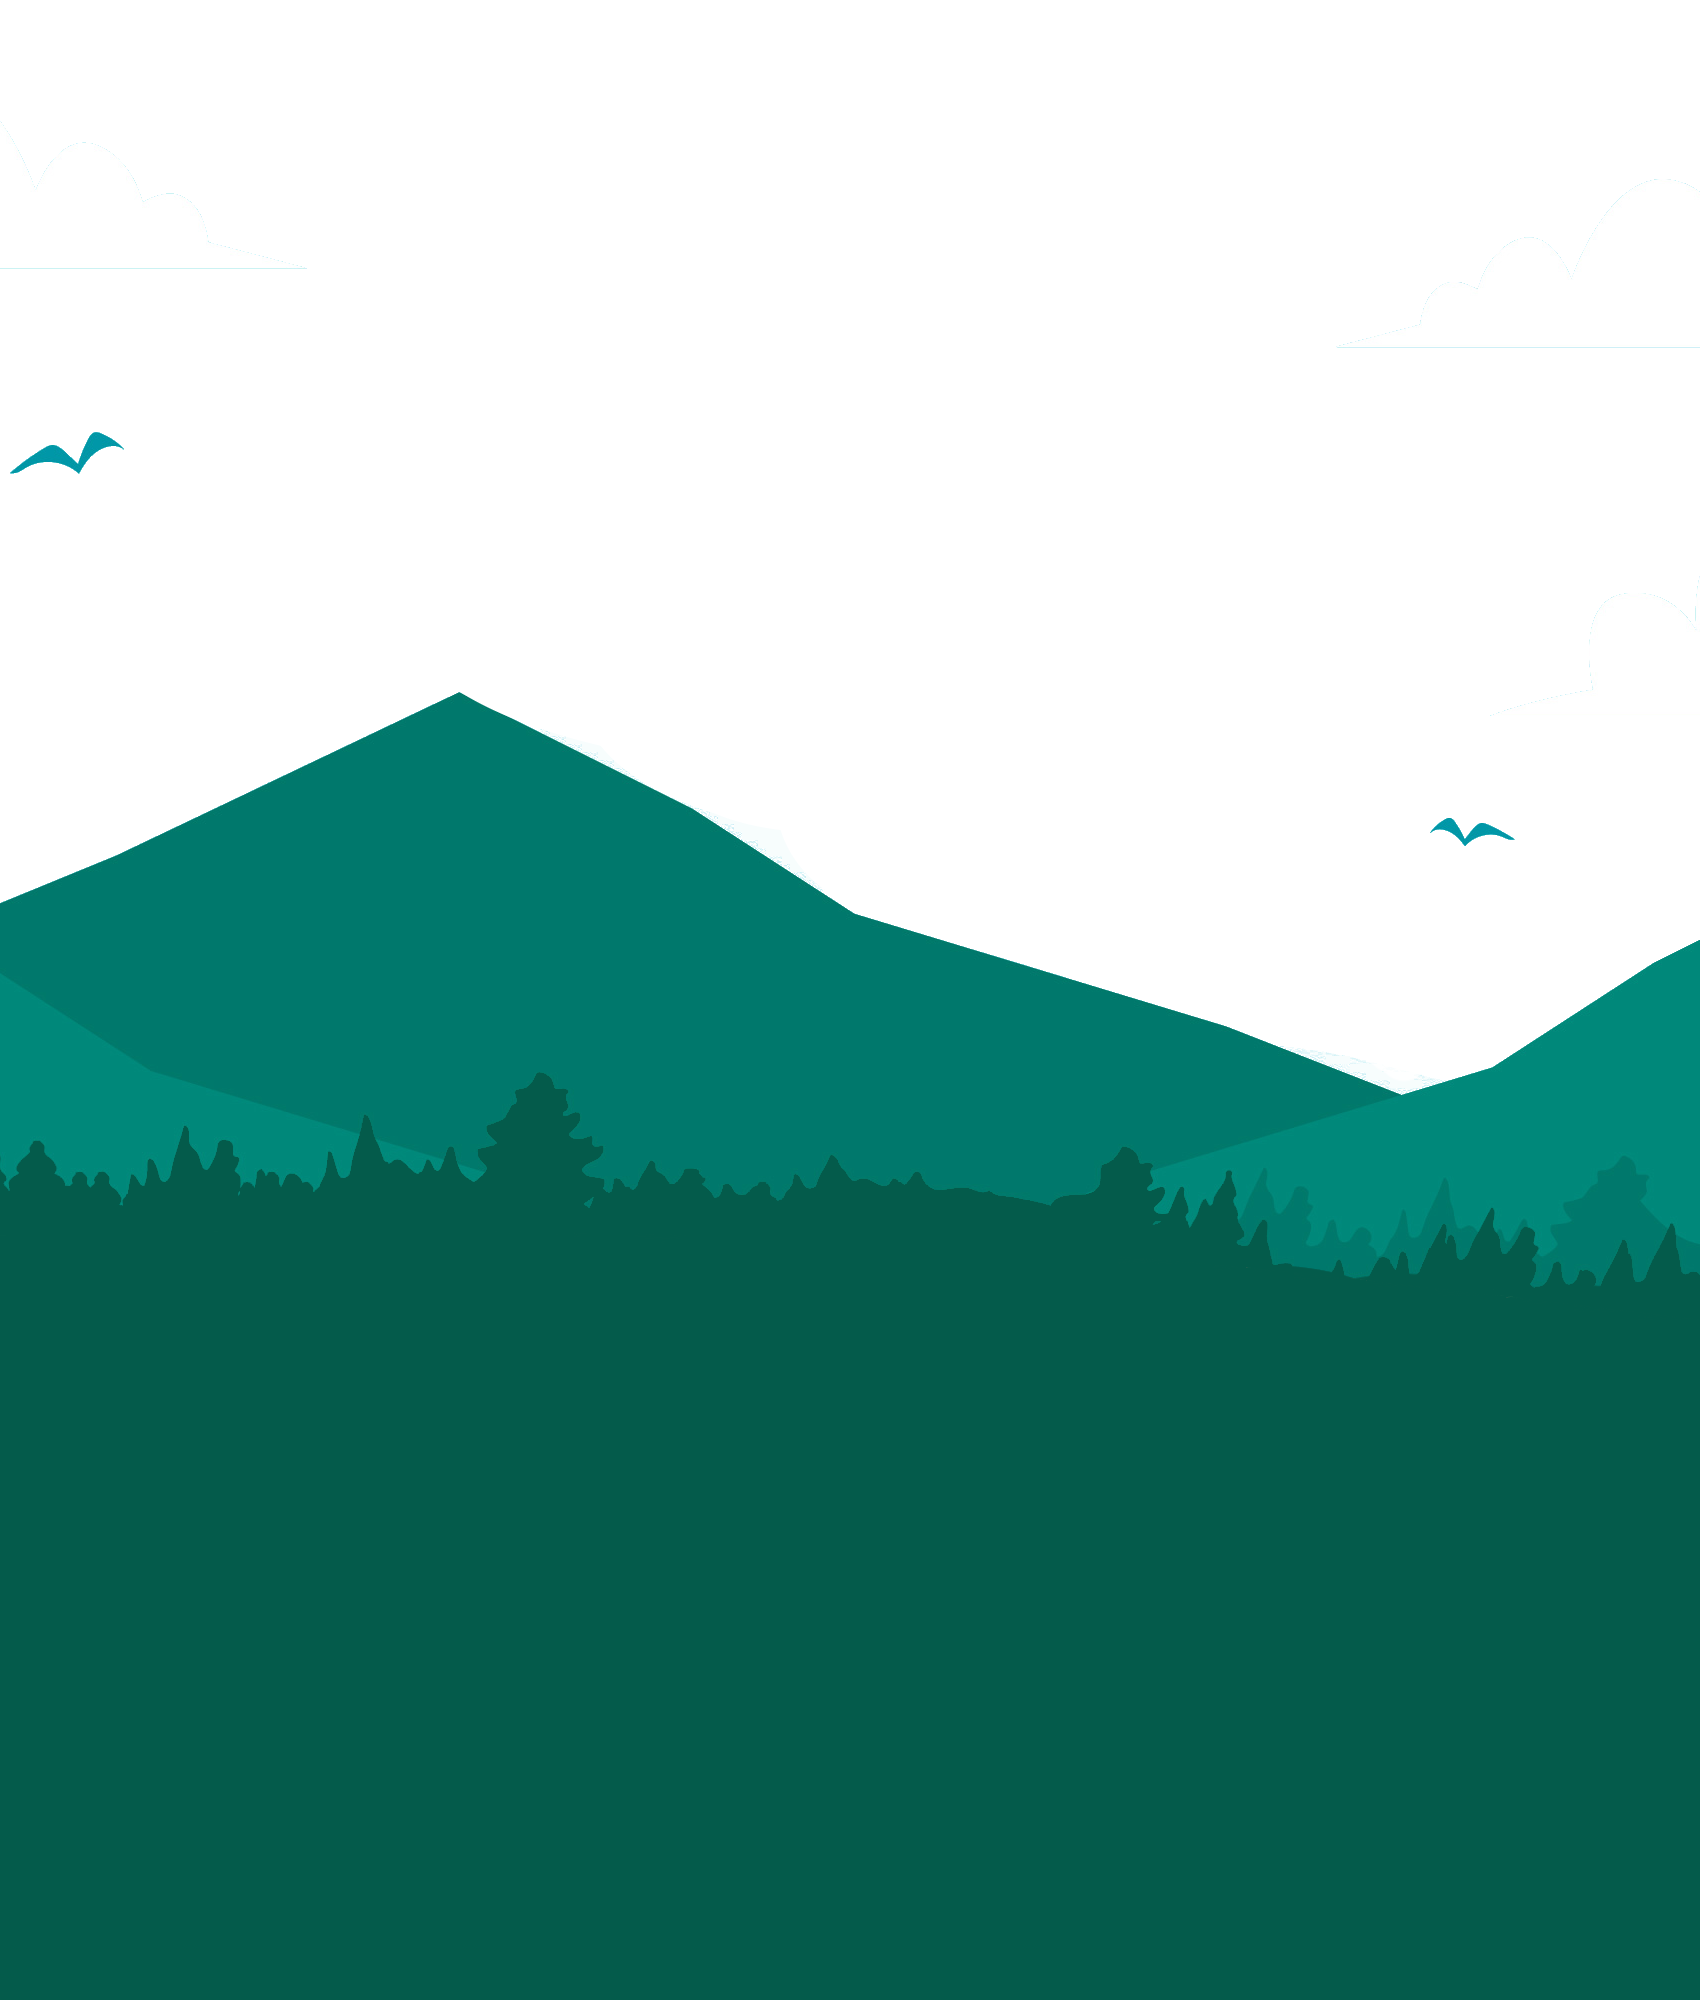
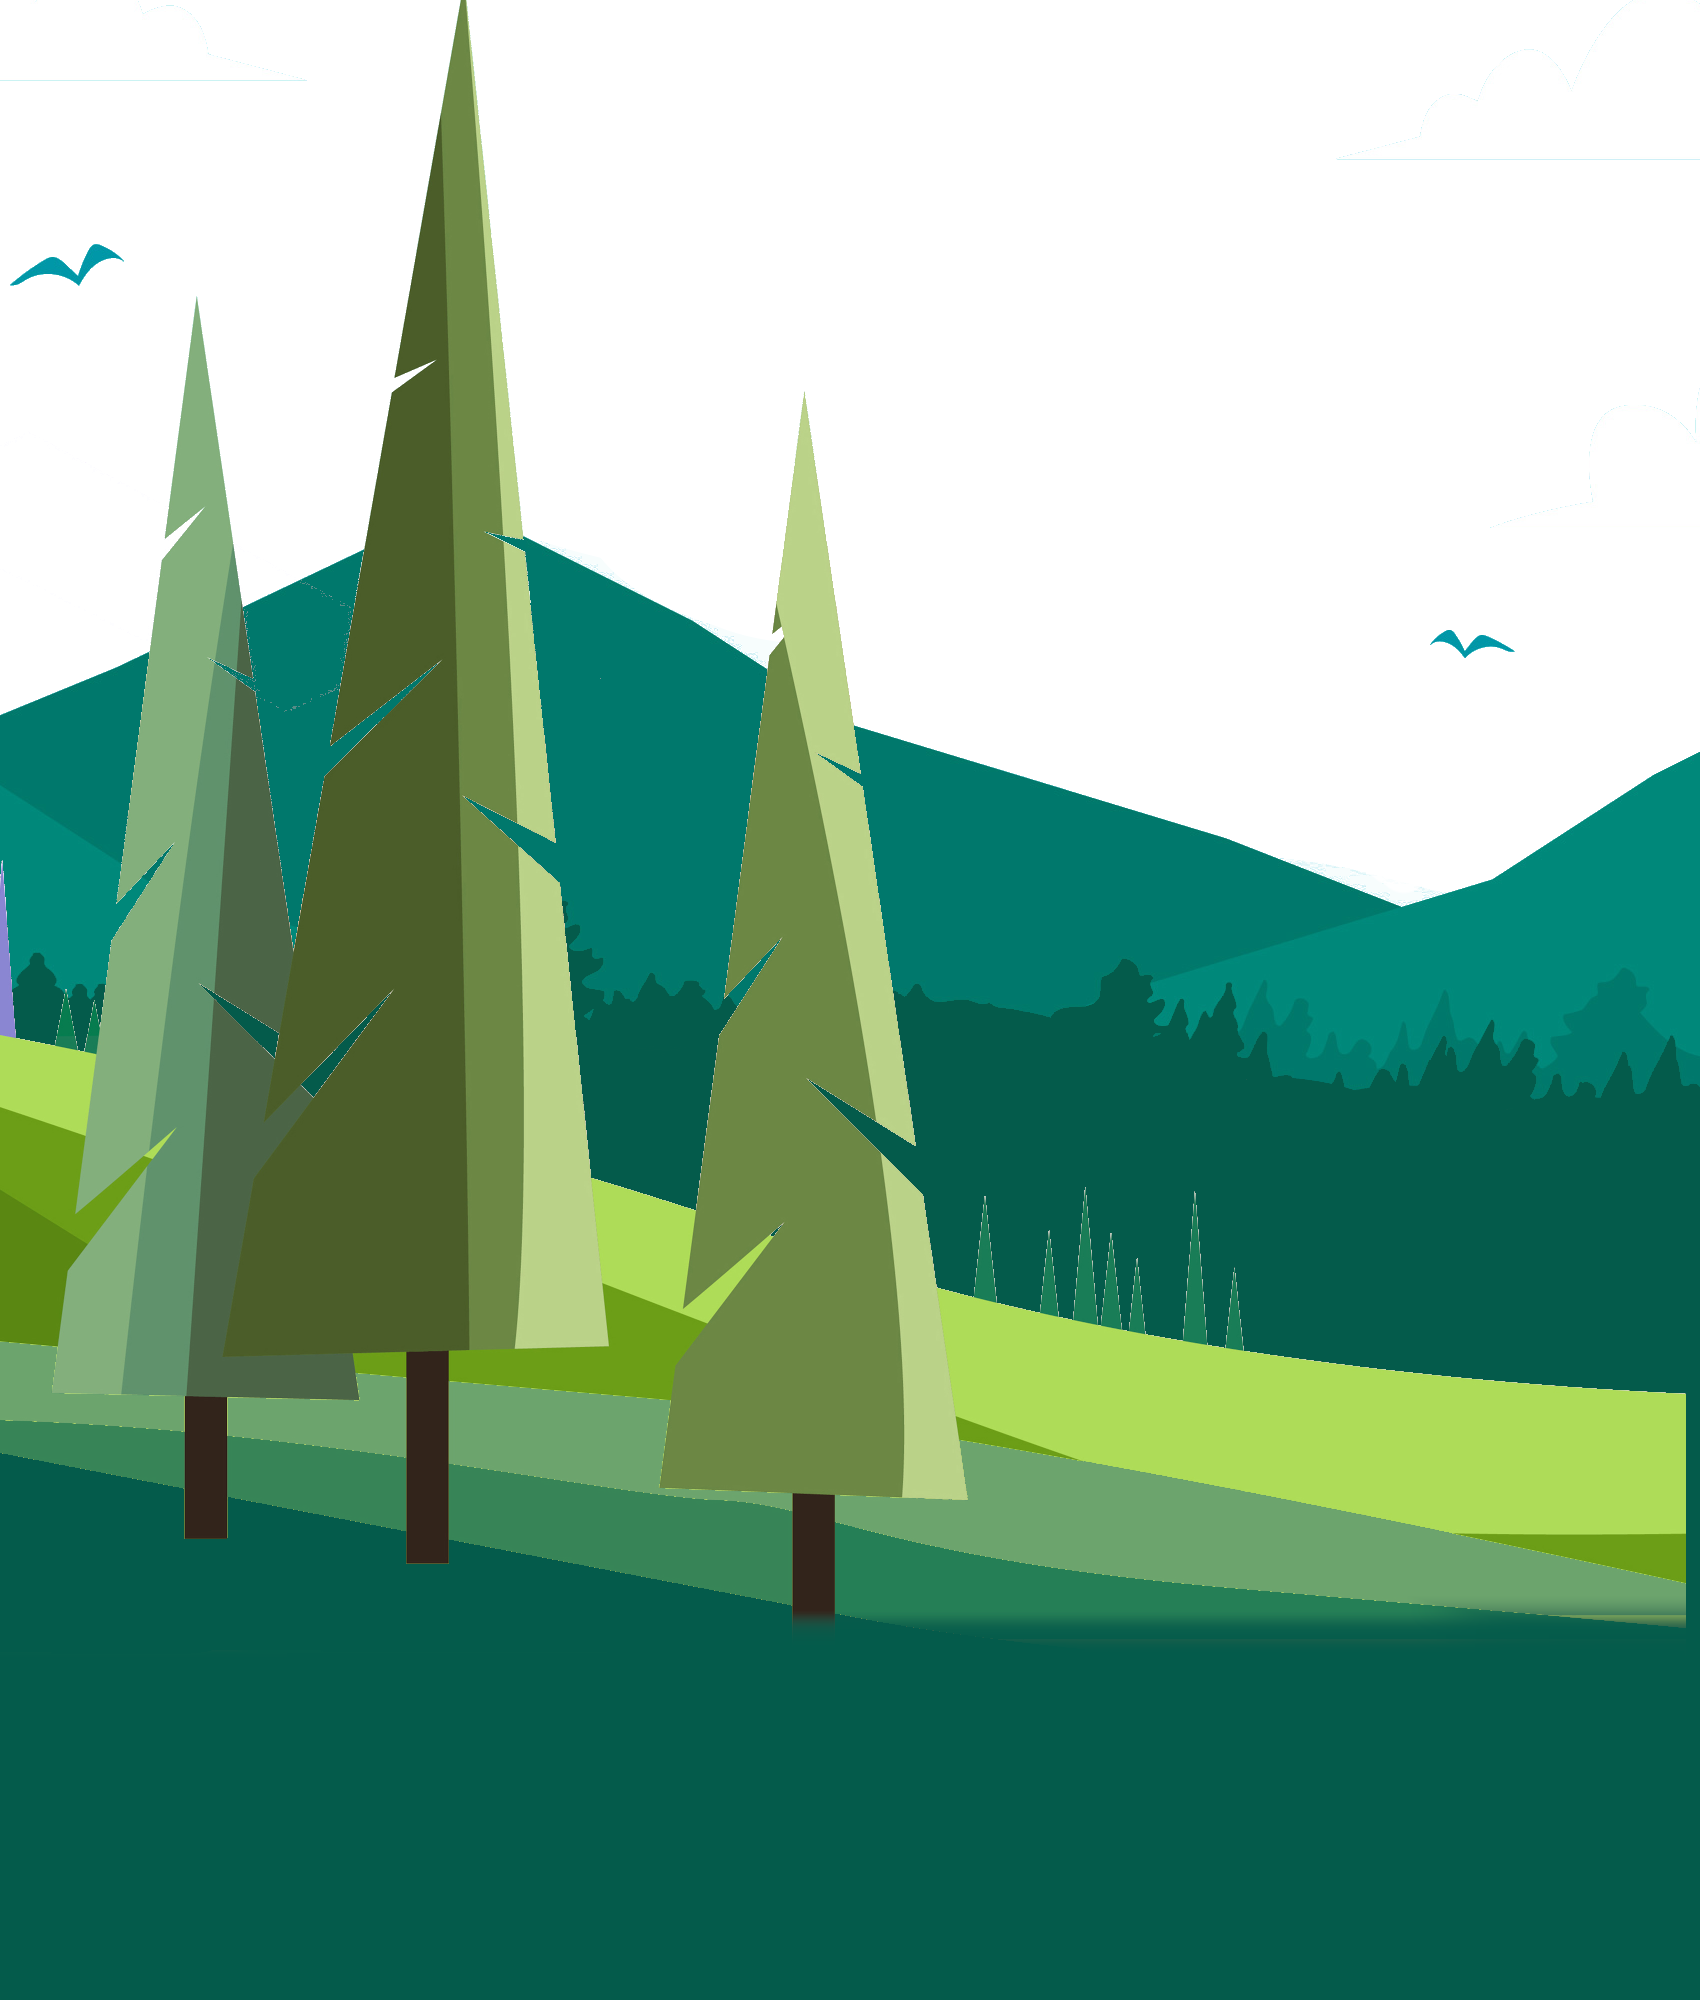
adding new bg

diff --git a/src/backgrounds/backgrounds.js b/src/backgrounds/backgrounds.js
@@ -2,13 +2,16 @@ import { themeWeather } from "../components/data/bg";
 
 const backgrounds = {
 
-changeBackground(a, b, c, d) {
+changeBackground(a, b, c, d,e) {
     if (a < b && a > c) {
         return themeWeather.night;
     } else {
-        if (d.includes("clear sky", "few clouds", "scattered clouds")) {
+        if (d.includes("clear sky", "few clouds", "scattered clouds") && e < 12) {
+            return themeWeather.cold;
+        } else if ( (d.includes("clear sky", "few clouds", "scattered clouds") && e > 12) ) {
             return themeWeather.sun;
-        } else if (
+        }
+        else if (
             d.includes(
                 "broken clouds",
                 "shower rain",
@@ -26,11 +29,13 @@ changeBackground(a, b, c, d) {
     }
 },
 
-changeAnimation(a, b, c, d) {
+changeAnimation(a, b, c, d,e) {
     if (a < b && a > c) {
         return "night";
     } else {
-        if (d.includes("clear sky", "few clouds", "scattered clouds")) {
+        if (d.includes("clear sky", "few clouds", "scattered clouds") && e < 12) {
+            return "cold";
+        } else if ( (d.includes("clear sky", "few clouds", "scattered clouds") && e > 12) ) {
             return "sun";
         } else if (
             d.includes(
@@ -50,11 +55,13 @@ changeAnimation(a, b, c, d) {
     }
 },
 
-changeAnimationDetail(a, b, c, d) {
+changeAnimationDetail(a, b, c, d, e) {
     if (a < b && a > c) {
         return "night-detail";
     } else {
-        if (d.includes("clear sky", "few clouds", "scattered clouds")) {
+        if (d.includes("clear sky", "few clouds", "scattered clouds") && e < 12) {
+            return "cold-detail";
+        } else if ( (d.includes("clear sky", "few clouds", "scattered clouds") && e > 12) ) {
             return "sun-detail";
         } else if (
             d.includes(

diff --git a/src/components/App/index.js b/src/components/App/index.js
@@ -144,19 +144,22 @@ class App extends Component {
                         data.dt,
                         data.sys.sunrise,
                         data.sys.sunset,
-                        data.weather[0].description
+                        data.weather[0].description,
+                        data.main.temp
                     ),
                     animation: backgrounds.changeAnimation(
                         data.dt,
                         data.sys.sunrise,
                         data.sys.sunset,
-                        data.weather[0].description
+                        data.weather[0].description,
+                        data.main.temp
                     ),
                     animationDetail: backgrounds.changeAnimationDetail(
                         data.dt,
                         data.sys.sunrise,
                         data.sys.sunset,
-                        data.weather[0].description
+                        data.weather[0].description,
+                        data.main.temp
                     )
                 });
             })

diff --git a/src/components/DailyDetail/DailyDetail.scss b/src/components/DailyDetail/DailyDetail.scss
@@ -53,6 +53,12 @@
     animation: gradred cubic-bezier(0.785, 0.135, 0.15, 0.86) 15s infinite;
 }
 
+.cold-detail {
+    background: linear-gradient(-75deg, #045b4b, #00786c, #2a3132);
+    background-size: 800%;
+    animation: gradred cubic-bezier(0.785, 0.135, 0.15, 0.86) 15s infinite;
+}
+
 @keyframes gradred {
     0% {
         background-position: 0% 50%;

diff --git a/src/components/App/App.scss b/src/components/App/App.scss
@@ -28,6 +28,12 @@
     animation: gradred cubic-bezier(0.785, 0.135, 0.15, 0.86) 15s infinite;
 }
 
+.cold {
+    background: linear-gradient(-75deg,  #35B0AB, #2f89d3, #FAFFB8);
+    background-size: 800%;
+    animation: gradred cubic-bezier(0.785, 0.135, 0.15, 0.86) 15s infinite;
+}
+
 @keyframes gradred {
     0% {
         background-position: 0% 50%;

diff --git a/src/components/data/bg.js b/src/components/data/bg.js
@@ -3,12 +3,14 @@ import sun from '../../images/sun.png';
 import night from '../../images/night.png';
 import snow from '../../images/snow.png';
 import rain from '../../images/rain.png';
+import cold from '../../images/cold.png';
 
 const themeWeather = {
     sun,
     night,
     snow,
-    rain
+    rain,
+    cold
 }
 
 export { themeWeather };
